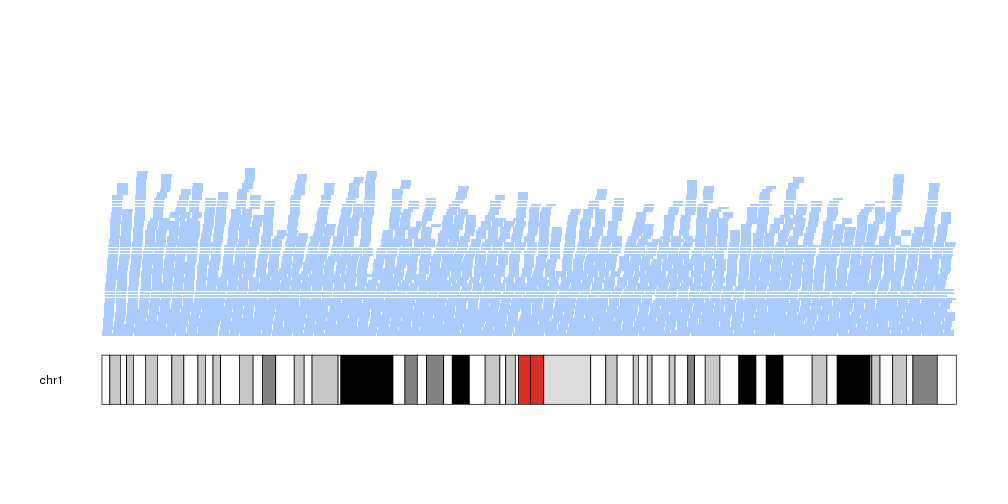
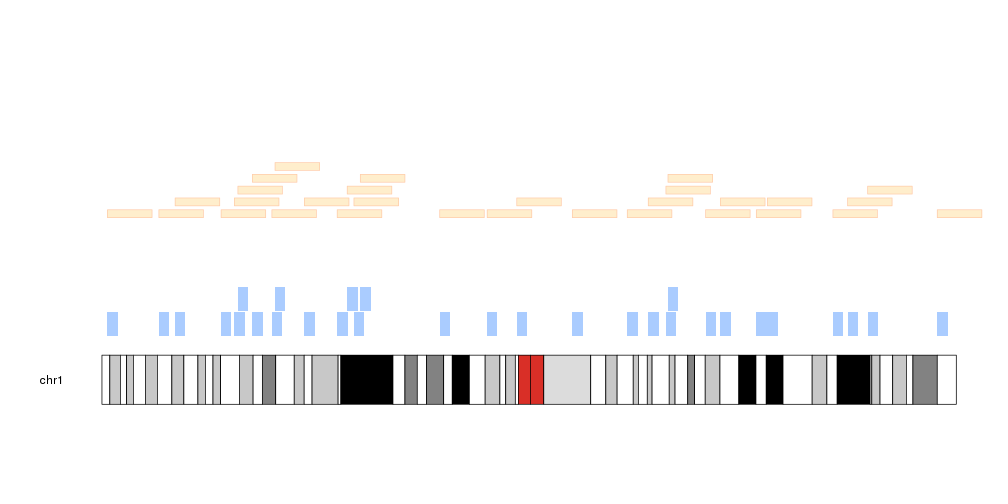
Changed plotRegions Example

Changed region(s): [[0.0923, 0.2976, 0.9841, 0.6845]]

diff --git a/docs/Tutorial/PlotRegions/PlotRegions.md b/docs/Tutorial/PlotRegions/PlotRegions.md
@@ -52,7 +52,8 @@ control the layering of the regions.
 
 ```r
 kp <- plotKaryotype(chromosomes="chr1")
-kpPlotRegions(kp, data=many.regions, col="#AACCFF", layer.margin = 0.001, border=NA)
+kpPlotRegions(kp, data=regions, col="#AACCFF", layer.margin = 0.01, border=NA, r0=0, r1=0.5)
+kpPlotRegions(kp, data=extendRegions(regions, extend.end = 10e6), col="#FFEECC", layer.margin = 0.05, border="#FFCCAA", r0=0.6, r1=1)
 ```
 
 ![plot of chunk Figure3](images//Figure3-1.png)
